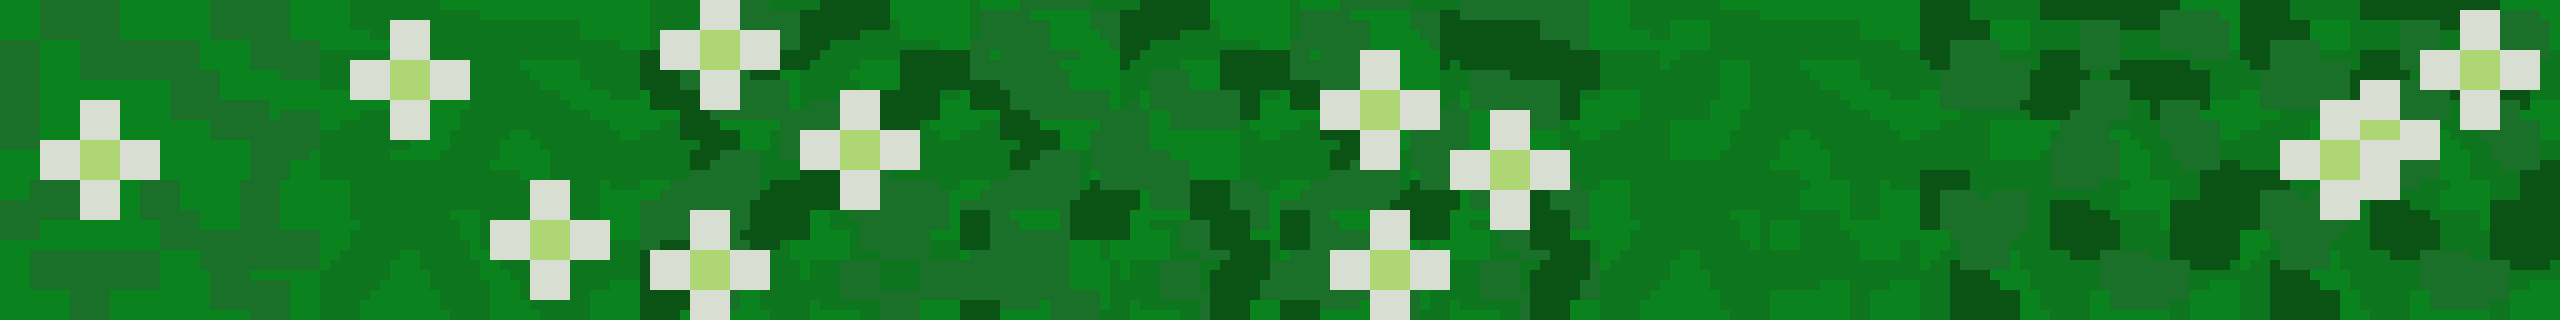
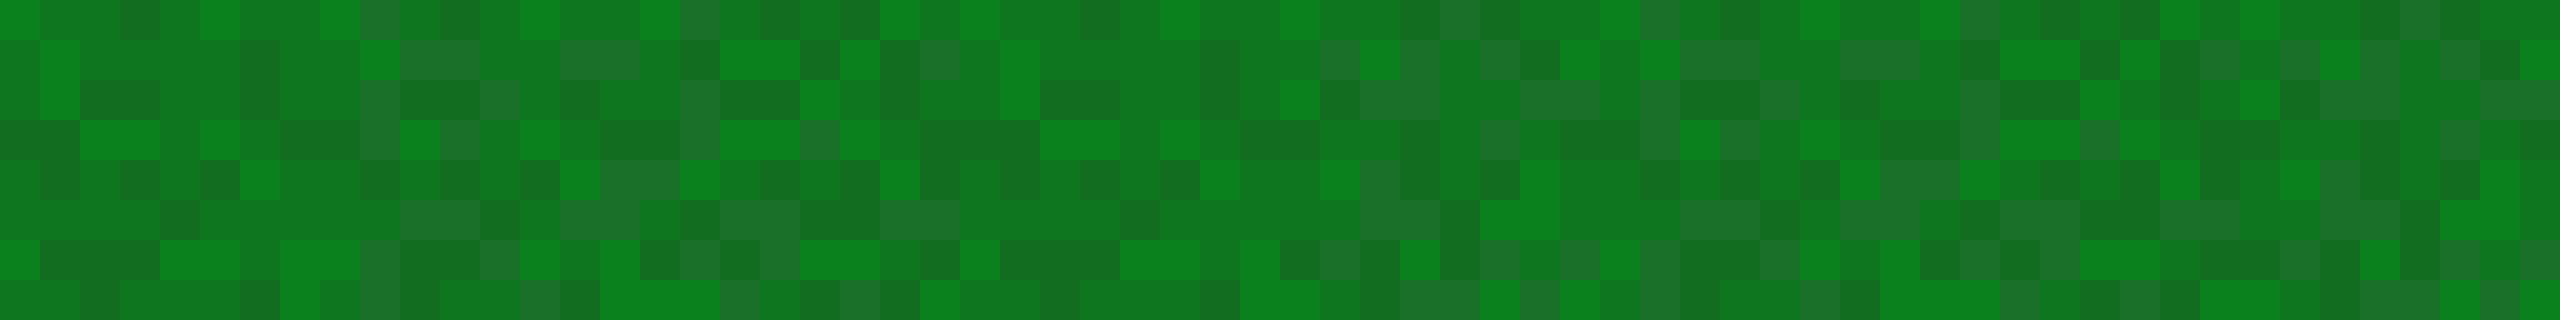
Update battle field render mechanism.
1. Using different texture to render ground,bridget and their boundary.
2. Upload new resouces.

diff --git a/client-service/js/render-server/main.js b/client-service/js/render-server/main.js
@@ -21,7 +21,9 @@ PIXI.loader
     .add([
         "battle_field/bridge_texture.png",
         "battle_field/house_texture.png",
-        "battle_field/land_texture.png",
+        "battle_field/grass.png",
+        "battle_field/brick.png",
+        "battle_field/grass-brick.png",
         "battle_field/water_texture.png",
         "buildings/castle-blue.png",
         "buildings/castle-red.png",
@@ -86,35 +88,17 @@ function loadProgressHandler(loader, resource) {
 // Setup render page
 function setup() {
     // setup battle field
-    ground = new PIXI.Sprite(
-	       PIXI.loader.resources["battle_field/land_texture.png"].texture
-	);
-    bridge_top = new PIXI.Sprite(
-	       new PIXI.Texture(PIXI.BaseTexture.fromImage("battle_field/bridge_texture.png"))
-	);
-    bridge_down = new PIXI.Sprite(
-	       new PIXI.Texture(PIXI.BaseTexture.fromImage("battle_field/bridge_texture.png"))
-	);
     river = new PIXI.Sprite(
 	       PIXI.loader.resources["battle_field/water_texture.png"].texture
 	);
-
     // set size
-    ground.width = max_w;
-    ground.height = max_h;
-    bridge_top.width = 6 * x_unit;
-    bridge_top.height = 4 * y_unit;
-    bridge_down.width = 6 * x_unit;
-    bridge_down.height = 4 * y_unit;
     river.width = 6 * x_unit;
     river.height = max_h;
-
     // setting tower
     var x_bound = 7;
     var main_x_bound = 2;
     /* Row the dice to choose which type of castle */
     let type_of_castle = Math.floor((Math.random() * 2) + 1);
-
     var p1_vicetower_top = new CASTLE(vice_tower_unit*x_unit,vice_tower_unit*y_unit,'p1_top','p1',type_of_castle);
     p1_vicetower_top.setpos(x_bound*x_unit,2*y_unit);
     var p1_vicetower_down = new CASTLE(vice_tower_unit*x_unit,vice_tower_unit*y_unit,'p1_down','p1',type_of_castle);
@@ -128,11 +112,95 @@ function setup() {
     var p2_maintower = new BIG_CASTLE(main_tower_unit*x_unit,main_tower_unit*y_unit,'p2_main','p2',type_of_castle);
     p2_maintower.setpos((50-main_x_bound-main_tower_unit)*x_unit,7*y_unit);
 
+    // Setup ground texture
+    for(let j=0; j < map_h_unit ; j++ ){
+        for(let i=0; i < map_w_unit ; i++){
+            if(i == 0 || i == map_w_unit-1 || j == 0 || j == map_h_unit-1){
+                // make the brick wall
+                let texture = new PIXI.Texture(PIXI.BaseTexture.fromImage('battle_field/grass-brick.png'));
+                texture.frame = (new PIXI.Rectangle(0,0,320,320));
+                let result = new PIXI.Sprite(texture);
+                result.width = x_unit;
+                result.height = y_unit;
+                result.x = i*x_unit;
+                result.y = j*y_unit;
+                bg_stage.addChild(result);
+            }
+            else{
+                // random pick an number
+                let type_of_grass = Math.floor((Math.random() * 8));
+                let texture = new PIXI.Texture(PIXI.BaseTexture.fromImage('battle_field/grass.png'));
+                texture.frame = (new PIXI.Rectangle(type_of_grass*320,0,320,320));
+                let result = new PIXI.Sprite(texture);
+                result.width = x_unit;
+                result.height = y_unit;
+                result.x = i*x_unit;
+                result.y = j*y_unit;
+                bg_stage.addChild(result);
+            }
+        }
+    }
+    // river
+    bg_stage.addChild(river);
+
+    // Setting top bridge
+    for(let j=3;j<3+bridge_h_unit;j++){
+        for(let i=22;i<22+bridge_w_unit;i++){
+            if(j==3 || j==2+bridge_h_unit){
+                // Draw bridge brick
+                let texture = new PIXI.Texture(PIXI.BaseTexture.fromImage('battle_field/brick.png'));
+                texture.frame = (new PIXI.Rectangle(0,0,320,320));
+                let result = new PIXI.Sprite(texture);
+                result.width = x_unit;
+                result.height = y_unit;
+                result.x = i*x_unit;
+                result.y = j*y_unit;
+                bg_stage.addChild(result);
+            }
+            else{
+                // Draw bridge texture
+                let type_of_bridge = Math.floor((Math.random() * 2));
+                let texture = new PIXI.Texture(PIXI.BaseTexture.fromImage('battle_field/bridge_texture.png'));
+                texture.frame = (new PIXI.Rectangle(type_of_bridge*320,0,320,320));
+                let result = new PIXI.Sprite(texture);
+                result.width = x_unit;
+                result.height = y_unit;
+                result.x = i*x_unit;
+                result.y = j*y_unit;
+                bg_stage.addChild(result);
+            }
+        }
+    }
+    // Setting down bridge
+    for(let j=13;j<13+bridge_h_unit;j++){
+        for(let i=22;i<22+bridge_w_unit;i++){
+            if(j==13 || j==12+bridge_h_unit){
+                // Draw bridge brick
+                let texture = new PIXI.Texture(PIXI.BaseTexture.fromImage('battle_field/brick.png'));
+                texture.frame = (new PIXI.Rectangle(0,0,320,320));
+                let result = new PIXI.Sprite(texture);
+                result.width = x_unit;
+                result.height = y_unit;
+                result.x = i*x_unit;
+                result.y = j*y_unit;
+                bg_stage.addChild(result);
+            }
+            else{
+                // Draw bridge texture
+                let type_of_bridge = Math.floor((Math.random() * 2));
+                let texture = new PIXI.Texture(PIXI.BaseTexture.fromImage('battle_field/bridge_texture.png'));
+                texture.frame = (new PIXI.Rectangle(type_of_bridge*320,0,320,320));
+                let result = new PIXI.Sprite(texture);
+                result.width = x_unit;
+                result.height = y_unit;
+                result.x = i*x_unit;
+                result.y = j*y_unit;
+                bg_stage.addChild(result);
+            }
+        }
+    }
+
     // add them into scene
-    main_stage.addChild(ground);
-    main_stage.addChild(river);
-    main_stage.addChild(bridge_top);
-    main_stage.addChild(bridge_down);
     main_stage.addChild(p1_vicetower_top.obj);
     main_stage.addChild(p1_vicetower_top.hp);
     main_stage.addChild(p1_vicetower_down.obj);
@@ -147,10 +215,7 @@ function setup() {
     main_stage.addChild(p2_maintower.hp);
 
     // set sprite's location
-    ground.position.set(0,0);
     river.position.set(22*x_unit,0);
-    bridge_top.position.set(22*x_unit,3*y_unit);
-    bridge_down.position.set(22*x_unit,13*y_unit);
 
     // Push tower into buildings array
     buildings.push(p1_vicetower_top);

diff --git a/client-service/js/render-server/global_var.js b/client-service/js/render-server/global_var.js
@@ -7,9 +7,11 @@ var p2_current_hand = [];
 // Scene Part
 var wrapper = new PIXI.Container();
 var main_stage = new PIXI.Container();
+var bg_stage = new PIXI.Container();
 var close_stage = new PIXI.Container();
 wrapper.addChild(close_stage);
 wrapper.addChild(main_stage);
+main_stage.addChild(bg_stage);
 close_stage.alpha = 0;
 
 // Setting Global object (Sprite)

diff --git a/README.md b/README.md
@@ -41,9 +41,9 @@ Render part of a game project.
     - Design back ground music of `end-of-game`,`battle`,and `start-of-game`
     - Art work of `human thief`
     - More about H+ : [youtube](https://www.youtube.com/channel/UCPEdLLsXN8wxl-q3Esnq6eg) , [soundcloud](https://soundcloud.com/9xeiexzqbawv)
-- 邱
-    - Art work of `elf archer`
 - 黃
     - Art work of `human priest`
 - Kevin Cyu (kevinbird61@gmail.com)
     - Render engine builder and art design of most piskel character.
+- Anonymous contributor
+    - Art work of `elf archer`
